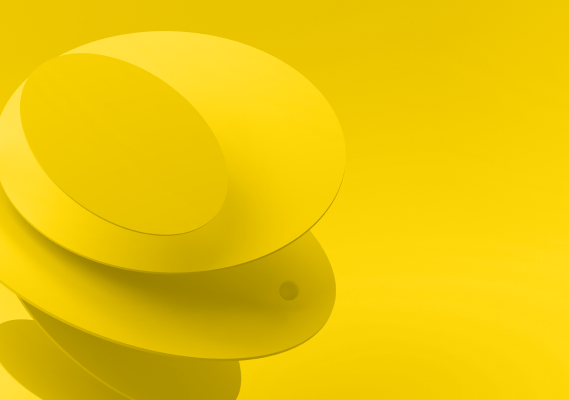
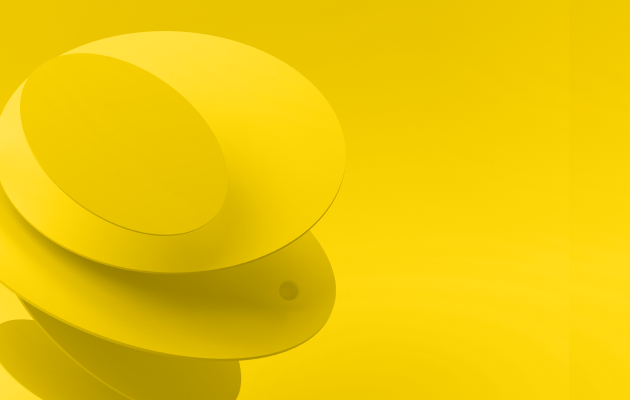
redesign #24

diff --git a/src/routes/+page.svelte b/src/routes/+page.svelte
@@ -1,23 +1,94 @@
 <script>
-	import HeaderWrapper from "$lib/HeaderWrapper.svelte";
+	import HeaderWrapper from '$lib/HeaderWrapper.svelte';
+
+	function onButton(route) {
+		window.location.href = route;
+	}
 </script>
 
 <svelte:head>
 	<title>BUTWEDOIT</title>
 </svelte:head>
 
-<HeaderWrapper hideMedia={true}>
-    <div class="background">asd</div>
+<HeaderWrapper imagePath="/shapes/bg.png" indexBackground={true}>
+	<div class="container">
+		<div class="row gx-md-5">
+			<div
+				class="col-12 col-md-6 btn-wrapper"
+				on:click={() => onButton('/events')}
+				on:keypress={() => onButton('/events')}
+			>
+				<img src="/shapes/btn_a.png" alt="background" class="img-fluid" />
+				<div class="unbounded pt-5">
+					<h1 class="display-1 text-center">EVENT</h1>
+					<h1 class="display-1 text-end me-5">&mdash;TY</h1>
+					<div class="note-holder roboto d-none d-md-block" style="right: 0em;">
+						<p>
+							Jsme specialisté na hybridní<br />
+							eventy popřípadě přesuneme<br />
+							Vaši akci kompletně do onlinu.
+						</p>
+					</div>
+				</div>
+			</div>
+			<div
+				class="col-12 col-md-6 btn-wrapper pt-5 pt-md-0"
+				on:click={() => onButton('/videos')}
+				on:keypress={() => onButton('/videos')}
+			>
+				<img src="/shapes/btn_b.png" alt="background" class="img-fluid" />
+				<div class="unbounded pt-5">
+					<h1 class="display-1 pt-5 pt-md-0 ps-5">VI&mdash;</h1>
+					<h1 class="display-1" style="position:relative; left:20%;">DEA</h1>
+					<div class="note-holder roboto d-none d-md-block" style="left: 2em;">
+						<p>
+							Tvorba videa na míru, natáčíme<br />
+							produktová, průmyslová videa<br />
+							a taky propagační videa.
+						</p>
+					</div>
+				</div>
+			</div>
+		</div>
+	</div>
+	<!-- TODO webmaster link -->
+	<p class="roboto fw-light rights-text">© butwedoit. All rights reserved.</p>
 </HeaderWrapper>
 
 <style>
-    .background{
-        background-size: cover;
-		background-position: center;
-		background-repeat: no-repeat;
-        background-image: url('/shapes/bg.png');
-        position: relative;
-        height: 100%;
-        width: 100%;
-    }
+	.btn-wrapper {
+		position: relative;
+		overflow: hidden;
+		text-align: left;
+	}
+
+	.btn-wrapper img {
+		transition: 0.5s;
+	}
+
+	.btn-wrapper:hover img {
+		filter: blur(5px) brightness(0.5);
+		transform: scaleY(1.1);
+	}
+
+	.btn-wrapper > div {
+		cursor: pointer;
+		position: absolute;
+		bottom: 0;
+		width: 93.8%;
+		height: 100%;
+	}
+
+	.note-holder {
+		position: absolute;
+		width: 40%;
+		bottom: 1em;
+	}
+
+	.rights-text {
+		font-size: 0.7em;
+		position: absolute;
+		bottom: 1rem;
+		left: 1rem;
+	}
 </style>

diff --git a/src/lib/HeaderWrapper.svelte b/src/lib/HeaderWrapper.svelte
@@ -3,24 +3,26 @@
 	export let imagePath = null;
 	export let hideMedia = false;
 	export let blackOnWhite = false;
+	export let indexBackground = false;
 	import Navbar from '$lib/Navbar.svelte';
 </script>
 
-<div class="header-wrapper">
+<div class="header-wrapper" class:fixed={!hideMedia}>
 	{#if !hideMedia}
 		{#if imagePath == null}
 			<video autoplay muted loop>
 				<source src="/reel.mp4" type="video/mp4" />
 			</video>
 		{:else}
-			<img src="/images/thumbnails/{imagePath}" alt="thumbnail" class="img-fluid" />
+			<img src={imagePath} alt="thumbnail" class="img-fluid" class:indexBackground />
 		{/if}
 	{/if}
 	<div
-		class="header-overlay"
+		class="header-overlay p-4"
 		class:background={hideMedia}
 		class:white-on-black={!blackOnWhite}
 		class:black-on-white={blackOnWhite}
+		class:fixed={!hideMedia}
 	>
 		<Navbar {blackOnWhite} />
 		{#if !hideMedia}
@@ -38,13 +40,11 @@
 
 <style>
 	.header-wrapper {
-		position: fixed;
-		top: 0;
-		height: 100vh;
-		height: 100vw;
+		min-height: 100vh;
 	}
 
-	.header-wrapper video {
+	.header-wrapper video,
+	img {
 		object-fit: cover;
 		position: fixed;
 		height: 100%;
@@ -52,9 +52,7 @@
 	}
 
 	.header-wrapper .header-overlay {
-		position: fixed;
 		z-index: 2;
-		top: 0;
 		width: 100%;
 		height: 100%;
 		color: var(--white);
@@ -68,5 +66,15 @@
 	.background {
 		background-color: var(--yellow) !important;
 		color: var(--black) !important;
+	}
+
+	.indexBackground {
+		opacity: 0.5;
+	}
+
+	.fixed {
+		background-color: var(--yellow);
+		position: fixed;
+		top: 0;
 	}
 </style>

diff --git a/src/routes/contact/+page.svelte b/src/routes/contact/+page.svelte
@@ -10,7 +10,7 @@
 <HeaderWrapper hideMedia={true} blackOnWhite={true}>
 	<div class="m-5 p-5 montserrat">
 		<div class="row">
-			<div class="col-6">
+			<div class="col-12 col-md-6">
 				<h1>Petr Vančata</h1>
 				<p>Lorem ipsum</p>
 				<LinkButton href="tel:+420721343006" classes="me-5" blackOnWhite={true}>
@@ -20,7 +20,7 @@
 					<i class="bi bi-envelope pe-2" />petr@butwedoit.cz
 				</LinkButton>
 			</div>
-			<div class="col-6">
+			<div class="col-12 col-md-6 pt-5 pt-md-0">
 				<h1>Jindřich Soukal</h1>
 				<p>Lorem ipsum</p>
 				<LinkButton href="tel:+420608267367" classes="me-5" blackOnWhite={true}>
@@ -31,21 +31,22 @@
 				</LinkButton>
 			</div>
 		</div>
-		<div class="spacer" />
-		<div class="row">
-			<div class="col-3">
+		<div class="spacer d-none d-md-block" />
+		<div class="row pt-5 pt-md-0">
+			<div class="col-12 col-md-3">
 				<h3>Adresa sídla</h3>
 			</div>
-			<div class="col-3">
+			<div class="col-12 col-md-3">
 				<p>Jana Štursy 2408/37</p>
 				<p>37010, České Budějovice</p>
 			</div>
-			<div class="col-3">
+			<div class="col-12 col-md-3">
 				<p>but we do it s.r.o.</p>
 				<p>IČO 14025132</p>
 			</div>
-			<div class="col-3" />
+			<div class="col-3 d-none d-md-block" />
 		</div>
+		<!-- TODO webmaster link -->
 		<p class="roboto fw-light text-end pt-5 mt-5">© butwedoit. All rights reserved.</p>
 	</div>
 </HeaderWrapper>

diff --git a/src/lib/Footer.svelte b/src/lib/Footer.svelte
@@ -4,7 +4,7 @@
 
 <div class="footer-wrapper mx-5 p-5 mt-5 black-on-white">
 	<div class="row">
-		<div class="col-4 montserrat">
+		<div class="col-12 col-md-4 montserrat">
 			<LinkButton href="mailto:hello@butwedoit.cz" blackOnWhite={true}><b>hello@butwedoit.cz</b></LinkButton><br />
 			<LinkButton href="tel:+420682637637" blackOnWhite={true}><b>+420&nbsp;682&nbsp;637&nbsp;637</b></LinkButton>
 			<p class="py-5">
@@ -13,7 +13,7 @@
 			</p>
 			<p>IČO: 14025132</p>
 		</div>
-		<div class="col-8">
+		<div class="col-12 col-md-8">
 			<div class="row">
 				<div class="col"><img class="img-fluid" src="/logos/placeholder.png" alt="logo" /></div>
 				<div class="col"><img class="img-fluid" src="/logos/placeholder.png" alt="logo" /></div>
@@ -28,7 +28,7 @@
 				<div class="col"><img class="img-fluid" src="/logos/placeholder.png" alt="logo" /></div>
 				<div class="col"><img class="img-fluid" src="/logos/placeholder.png" alt="logo" /></div>
 			</div>
-			<p class="roboto text-end pt-5 mt-5">© butwedoit, All rights reserved.</p>
+			<p class="roboto text-end pt-5 mt-md-5">© butwedoit, All rights reserved.</p>
 		</div>
 	</div>
 </div>

diff --git a/src/lib/Event.svelte b/src/lib/Event.svelte
@@ -23,19 +23,12 @@
 	{/if}
 </div>
 
-<div class="p-0 d-block d-md-none">
-	<div
-		class="thumbnail thumbnailBtn"
-		style="background-image: url(\'imgs/thumbnails/{thumbnail}\');"
-	>
-		<div class="card-content-holder-small pt-2 px-3">
-			<h2>
-				<span class="p-2 lh-base">{label}</span>
-			</h2>
-			<p class="lead">
-				<span class="p-2 lh-base">{desc}</span>
-			</p>
-		</div>
+<div class="d-block d-md-none mb-5">
+	<div class="thumbnail" style="background-image: url('/images/thumbnails/{thumbnail}');" />
+	<div class="pt-2 px-3">
+		<h2 class="unbounded">{label}</h2>
+		<p class="lead roboto">{desc}</p>
+		<EventMoreButton {eventType} {id} />
 	</div>
 </div>
 
@@ -46,5 +39,13 @@
 		height: 50vh;
 		background-color: var(--white);
 		color: var(--black);
+	}
+	.thumbnail {
+		position: relative;
+		height: 33vh;
+		width: 100%;
+		background-size: cover;
+		background-position: center;
+		background-repeat: no-repeat;
 	}
 </style>

diff --git a/src/lib/Navbar.svelte b/src/lib/Navbar.svelte
@@ -4,10 +4,8 @@
 	export let blackOnWhite = false;
 </script>
 
-<div id="overlay-navbar" class="d-flex flex-row align-items-center m-4">
-	<a href="/">
-		<div id="logo" class:inverted={blackOnWhite}/>
-	</a>
+<div id="overlay-navbar" class="d-flex flex-row align-items-center">
+	<a href="/"><div id="logo" class:inverted={blackOnWhite}/></a>
 	<div class="container-fluid" />
 	<LinkButton href="/videos" classes="px-1 px-md-3" blackOnWhite={blackOnWhite}>VIDEOS</LinkButton>
 	<LinkButton href="/events" classes="px-1 px-md-3" blackOnWhite={blackOnWhite}>EVENTS</LinkButton>

diff --git a/src/lib/EventCategory.svelte b/src/lib/EventCategory.svelte
@@ -4,8 +4,8 @@
 
 <div class="py-5 mt-5">
 	<h2 class="text-center display-4 text-uppercase unbounded">{label}</h2>
-	<div class="row m-5">
-		<div class="col-6"><p class="lead px-5 unbounded">{descMain}</p></div>
-		<div class="col-6"><p class="lead px-5 roboto">{desc}</p></div>
+	<div class="row m-md-5 mt-5">
+		<div class="col-12 col-md-6"><p class="lead px-5 unbounded">{descMain}</p></div>
+		<div class="col-12 col-md-6"><p class="lead px-5 roboto">{desc}</p></div>
 	</div>
 </div>

diff --git a/src/routes/detail/[type]/[id]/+page.svelte b/src/routes/detail/[type]/[id]/+page.svelte
@@ -14,7 +14,7 @@
 	});
 </script>
 
-<HeaderWrapper title={data.label} imagePath={data.thumbnail}/>
+<HeaderWrapper title={data.label} imagePath="/images/thumbnails/{data.thumbnail}"/>
 <ContentWrapper blackOnWhite={true}>
 	<div class="text-center">
 		<p class="lead roboto my-5 pt-5">{data.detailLongDesc}</p>
